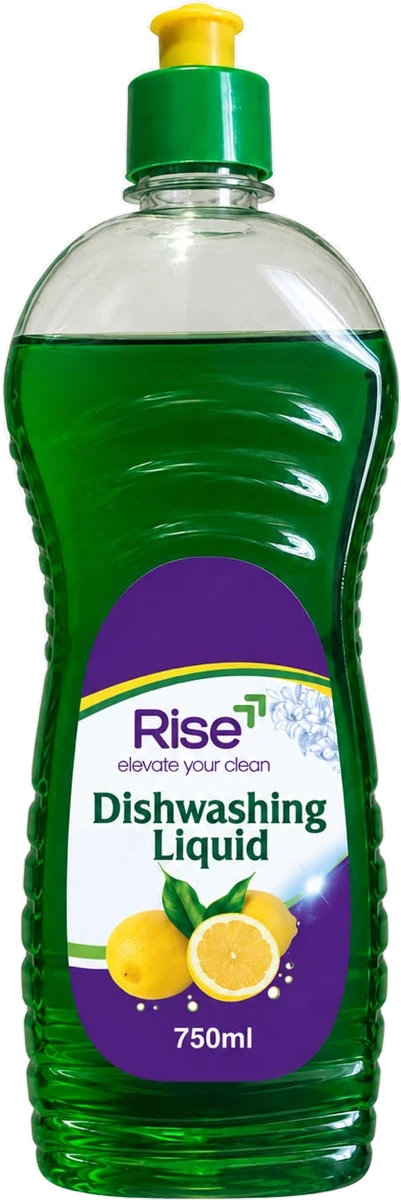
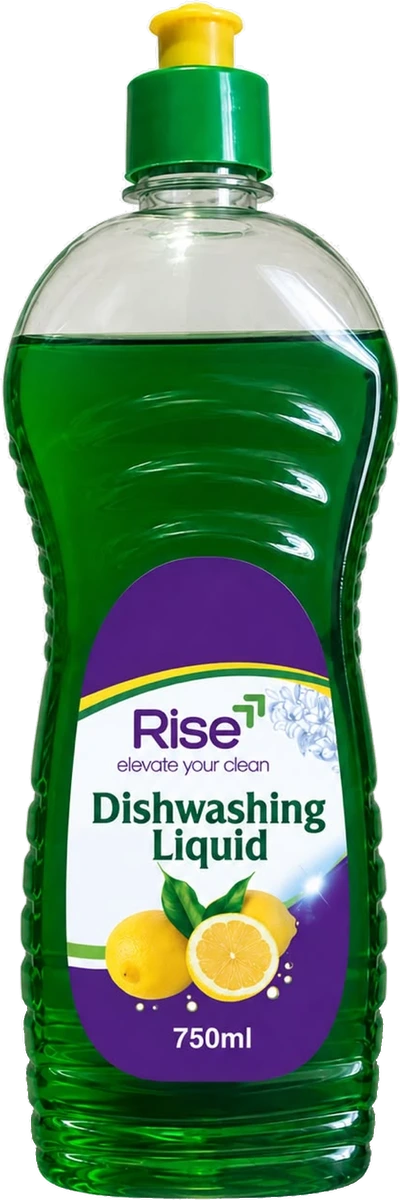
fix: remove studio reflections from product photos and update imageSet widths

diff --git a/rise-the-brand/source/src/data/store.js b/rise-the-brand/source/src/data/store.js
@@ -21,12 +21,15 @@ export const settings = {
 
   hours: "Monday to Friday, 8 a.m. to 5 p.m.",
 
+  photoVersion: 2,
   socials: {
     instagram: "#",
     facebook: "#",
     tiktok: "#",
   },
 };
+
+export const photoVersion = 2;
 
 export const products = [
   {
@@ -81,7 +84,7 @@ export const products = [
     stock: 40,
     badge: "New",
     image: "images/products/dishwashing-liquid-large.webp",
-    imageSet: "images/products/dishwashing-liquid-medium.webp 401w, images/products/dishwashing-liquid-large.webp 801w",
+    imageSet: "images/products/dishwashing-liquid-medium.webp 400w, images/products/dishwashing-liquid-large.webp 800w",
     thumb: "images/products/dishwashing-liquid-thumb.webp",
     scale: 0.95,
     ghost: "750",
@@ -157,7 +160,7 @@ export const products = [
     stock: 32,
     badge: null,
     image: "images/products/footwear-cleaner-large.webp",
-    imageSet: "images/products/footwear-cleaner-medium.webp 290w, images/products/footwear-cleaner-large.webp 581w",
+    imageSet: "images/products/footwear-cleaner-medium.webp 274w, images/products/footwear-cleaner-large.webp 547w",
     thumb: "images/products/footwear-cleaner-thumb.webp",
     scale: 0.7,
     ghost: "200",

diff --git a/rise-the-brand/source/scripts/clean-product-bases.py b/rise-the-brand/source/scripts/clean-product-bases.py
@@ -1,0 +1,114 @@
+import os
+import glob
+import numpy as np
+from PIL import Image
+from scipy.ndimage import label, binary_fill_holes
+
+def clean_product_image(large_path):
+    # Load original master image
+    img = Image.open(large_path).convert("RGBA")
+    arr = np.array(img).copy()
+    h, w, _ = arr.shape
+
+    # Only inspect the bottom sixth of the image
+    bottom_start = h * 5 // 6
+    bottom_arr = arr[bottom_start:, :, :]
+
+    r = bottom_arr[:, :, 0].astype(float)
+    g = bottom_arr[:, :, 1].astype(float)
+    b = bottom_arr[:, :, 2].astype(float)
+    a = bottom_arr[:, :, 3].astype(float)
+
+    min_rgb = np.minimum(np.minimum(r, g), b)
+    max_rgb = np.maximum(np.maximum(r, g), b)
+    diff_rgb = max_rgb - min_rgb
+
+    # Identify pale / white studio reflection pixels
+    is_pale = (min_rgb > 125) & (diff_rgb < 45) & (a > 5)
+    is_bg = (a <= 15)
+
+    # Seed flood-fill from background & image border pixels in the bottom region
+    edge_mask = np.zeros((h - bottom_start, w), dtype=bool)
+    edge_mask[-1, :] = True
+    edge_mask[:, 0] = True
+    edge_mask[:, -1] = True
+
+    seed = is_bg | (edge_mask & (is_pale | (a < 100)))
+    mask_passable = is_bg | is_pale
+
+    # Connected component labeling to remove reflection connected to empty space
+    labeled, _ = label(mask_passable)
+    bg_labels = set(labeled[seed])
+    bg_labels.discard(0)
+
+    remove_mask = np.isin(labeled, list(bg_labels)) & is_pale
+
+    # Put back small enclosed gaps (e.g., text counter-spaces)
+    preserved_mask = ~remove_mask & (a > 10)
+    filled_preserved = binary_fill_holes(preserved_mask)
+    holes_to_restore = filled_preserved & ~preserved_mask
+    remove_mask[holes_to_restore] = False
+
+    # Apply alpha removal to cleaned array
+    arr_bottom_alpha = arr[bottom_start:, :, 3]
+    arr_bottom_alpha[remove_mask] = 0
+
+    # Crop tight bounding box around non-transparent pixels
+    non_zero_y, non_zero_x = np.where(arr[:, :, 3] > 10)
+    xmin, xmax = non_zero_x.min(), non_zero_x.max()
+    ymin, ymax = non_zero_y.min(), non_zero_y.max()
+
+    cleaned_master = Image.fromarray(arr).crop((xmin, ymin, xmax + 1, ymax + 1))
+    new_w, new_h = cleaned_master.size
+
+    # Base directory and product name
+    base_dir = os.path.dirname(large_path)
+    base_name = os.path.basename(large_path).replace("-large.webp", "")
+
+    # Save cleaned large master
+    large_out_path = os.path.join(base_dir, f"{base_name}-large.webp")
+    cleaned_master.save(large_out_path, format="WEBP", quality=95)
+    print(f"{base_name}-large.webp: width {new_w}px (height {new_h}px)")
+
+    # Save medium version (50% scale)
+    med_w = round(new_w * 0.5)
+    med_h = round(new_h * 0.5)
+    medium_img = cleaned_master.resize((med_w, med_h), Image.Resampling.LANCZOS)
+    medium_out_path = os.path.join(base_dir, f"{base_name}-medium.webp")
+    medium_img.save(medium_out_path, format="WEBP", quality=92)
+    print(f"{base_name}-medium.webp: width {med_w}px (height {med_h}px)")
+
+    # Save thumb version (15% scale)
+    thumb_w = round(new_w * 0.15)
+    thumb_h = round(new_h * 0.15)
+    thumb_img = cleaned_master.resize((thumb_w, thumb_h), Image.Resampling.LANCZOS)
+    thumb_out_path = os.path.join(base_dir, f"{base_name}-thumb.webp")
+    thumb_img.save(thumb_out_path, format="WEBP", quality=90)
+    print(f"{base_name}-thumb.webp: width {thumb_w}px (height {thumb_h}px)")
+
+    return {
+        "id": base_name,
+        "large_width": new_w,
+        "medium_width": med_w,
+        "thumb_width": thumb_w,
+    }
+
+def main():
+    products_dir = os.path.join(os.path.dirname(__file__), "..", "public", "images", "products")
+    large_files = sorted(glob.glob(os.path.join(products_dir, "*-large.webp")))
+
+    if not large_files:
+        print("No *-large.webp files found in", products_dir)
+        return
+
+    results = []
+    for filepath in large_files:
+        res = clean_product_image(filepath)
+        results.append(res)
+
+    print("\n--- Summary of New Widths ---")
+    for r in results:
+        print(f"{r['id']}: medium = {r['medium_width']}w, large = {r['large_width']}w (thumb = {r['thumb_width']}px)")
+
+if __name__ == "__main__":
+    main()
